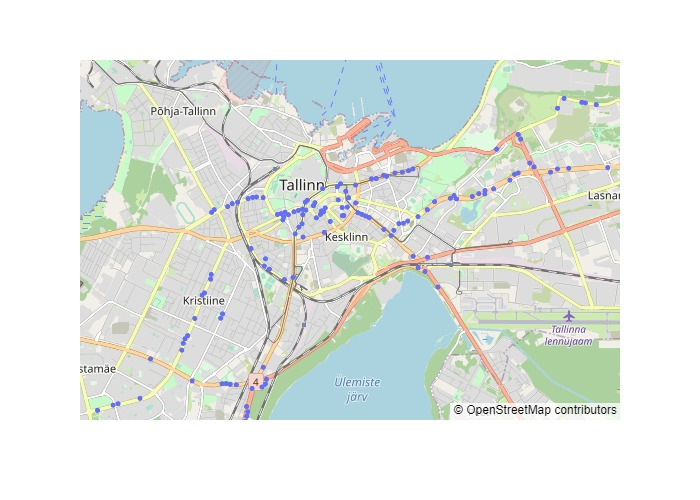
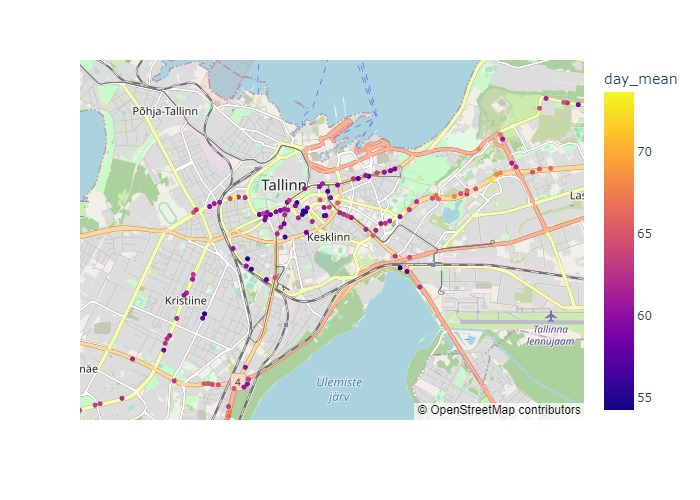
interpolation start

Changed region(s): [[0.09, 0.12, 0.96, 0.84]]

diff --git a/proj.py b/proj.py
@@ -3,6 +3,7 @@ import plotly.express as px
 import numpy as np
 from datetime import datetime, timedelta
 import matplotlib.pyplot as plt
+from scipy.spatial import Delaunay
 
 px.set_mapbox_access_token(open(".mapbox_token").read())
 
@@ -149,8 +150,31 @@ def get_station_data():
 
     return res_df
 
+def spacial_interpolation(res_df):
+    
+    n_edge = 100
+
+    lon_min=res_df["lon"].min()
+    lon_max=res_df["lon"].max()
+    lat_min=res_df["lat"].min()
+    lat_max=res_df["lat"].max()
+
+    lons = np.linspace(lon_min,lon_max,101)
+    lats = np.linspace(lat_min,lat_max,101)
+
+    Lon, Lat = np.meshgrid(lons,lats)
+
+    tri = Delaunay(res_df[["lon","lat"]].to_numpy())
+
+    print(tri)
 
 def main():
+
+    # TODO
+    # RMSE
+    # change implementatio of final data frame creation to accept svd-compressed data
+    # filters maybe?
+
     res_df = get_station_data()
     fig = px.scatter_mapbox(res_df,
                             lat="lat",
@@ -160,21 +184,25 @@ def main():
                             color="full_mean"
                             )
     fig.show()
+    fig.write_image("figs/fig1.jpeg")
 
-    # print(noise_df[reg_dict[1]])
+    spacial_interpolation(res_df)
+    #print(noise_df[reg_dict[1]])
 
-    # rmse_full = np.load("vars/full_every.npy")
 
-    # for e in rmse_full:
-    #    print(e)
+    rmse_full = np.load("vars/full_every.npy")
 
-    # print(rmse_full)
-    # plt.plot(rmse_full)
-    # plt.show()
-    # save_rmse(noise_df,"full_every",1)
-    # save_rmse(noise_day_df,"day_every",1)
-    # save_rmse(noise_evening_df,"evening_every",1)
-    # save_rmse(noise_night_df,"night_every",1)
+    for e in rmse_full:
+        print(e)
+
+    print(rmse_full)
+    plt.plot(rmse_full)
+    plt.show()
+    #save_rmse(noise_df,"full_every",1)
+    #save_rmse(noise_day_df,"day_every",1)
+    #save_rmse(noise_evening_df,"evening_every",1)
+    #save_rmse(noise_night_df,"night_every",1)
+
 
 
 if __name__ == "__main__":
